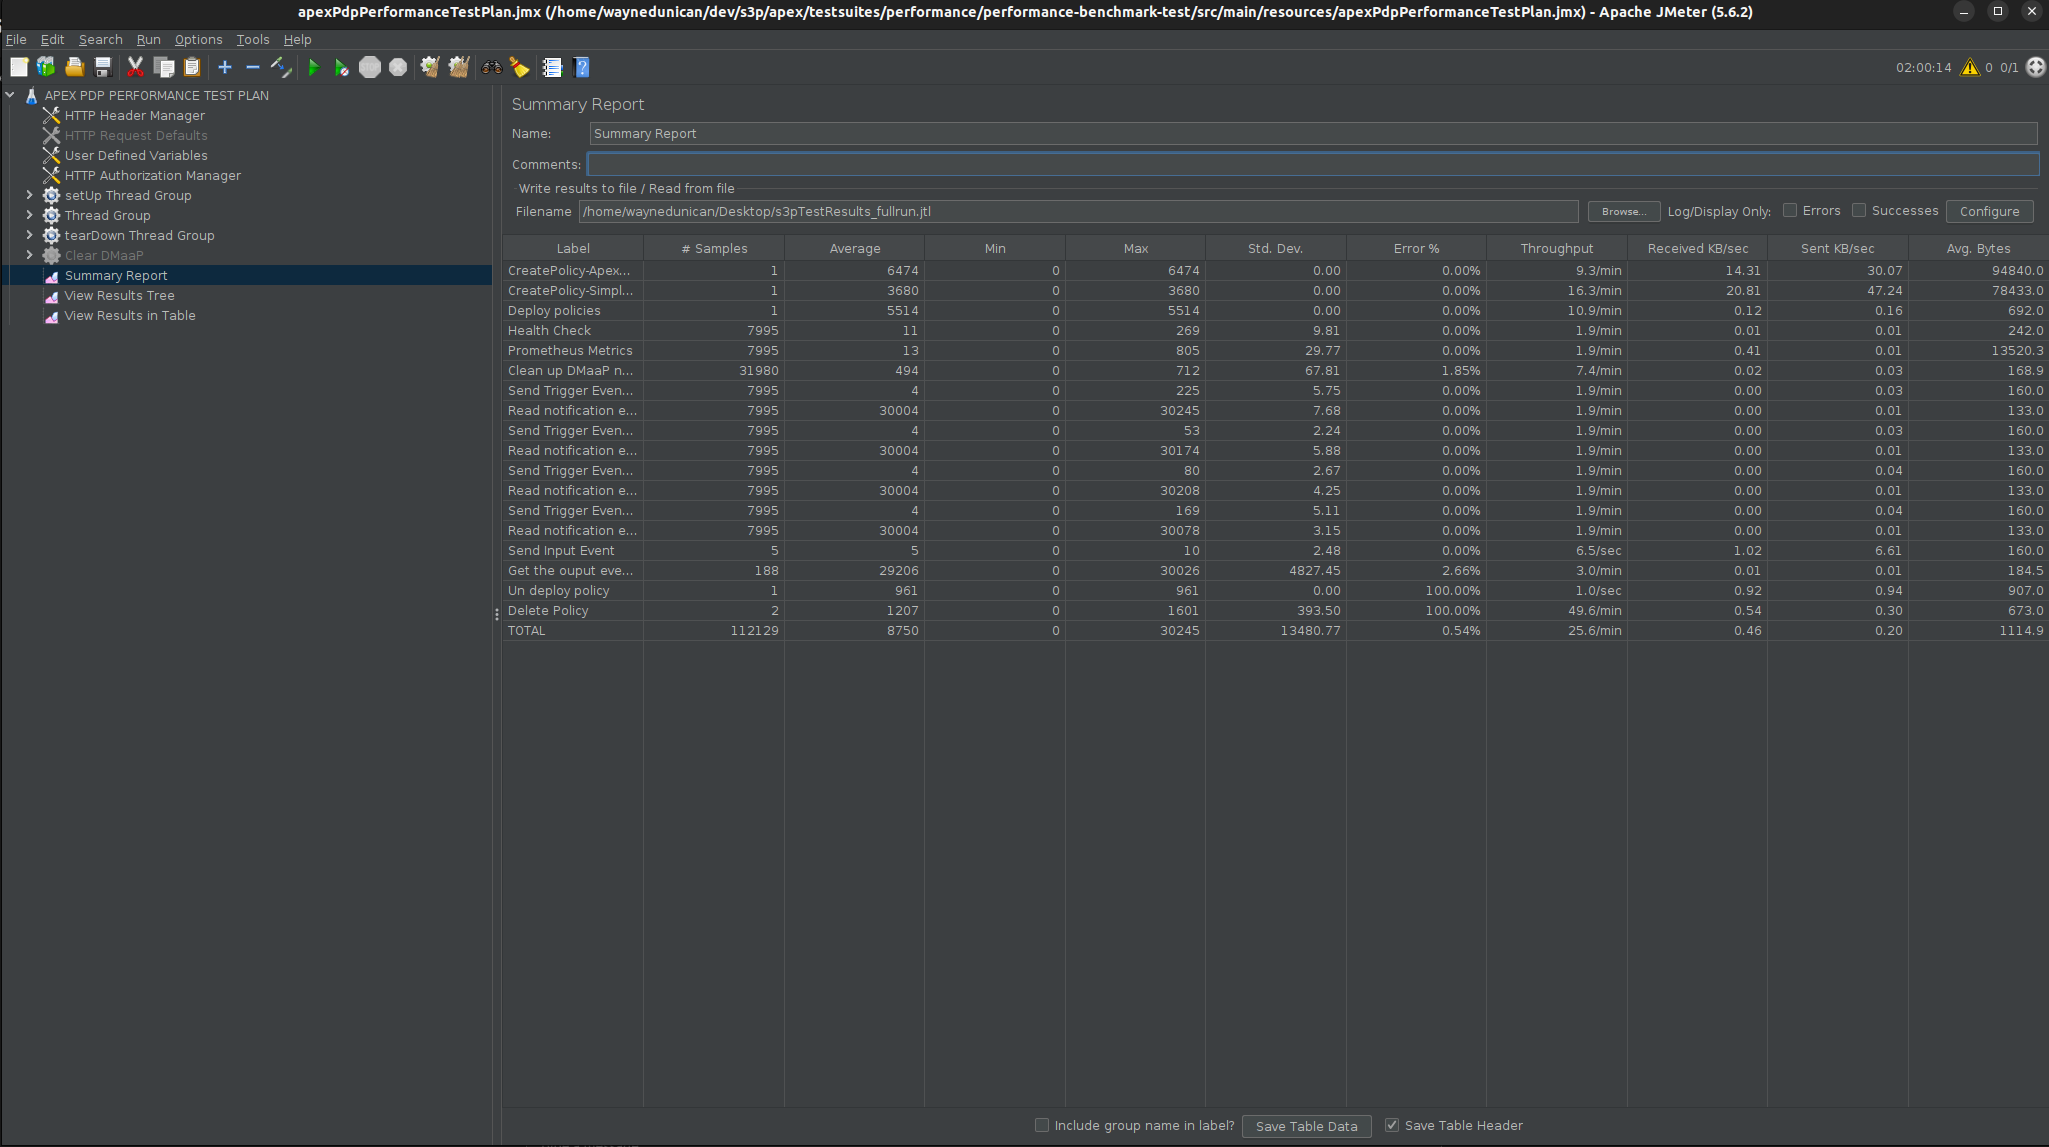
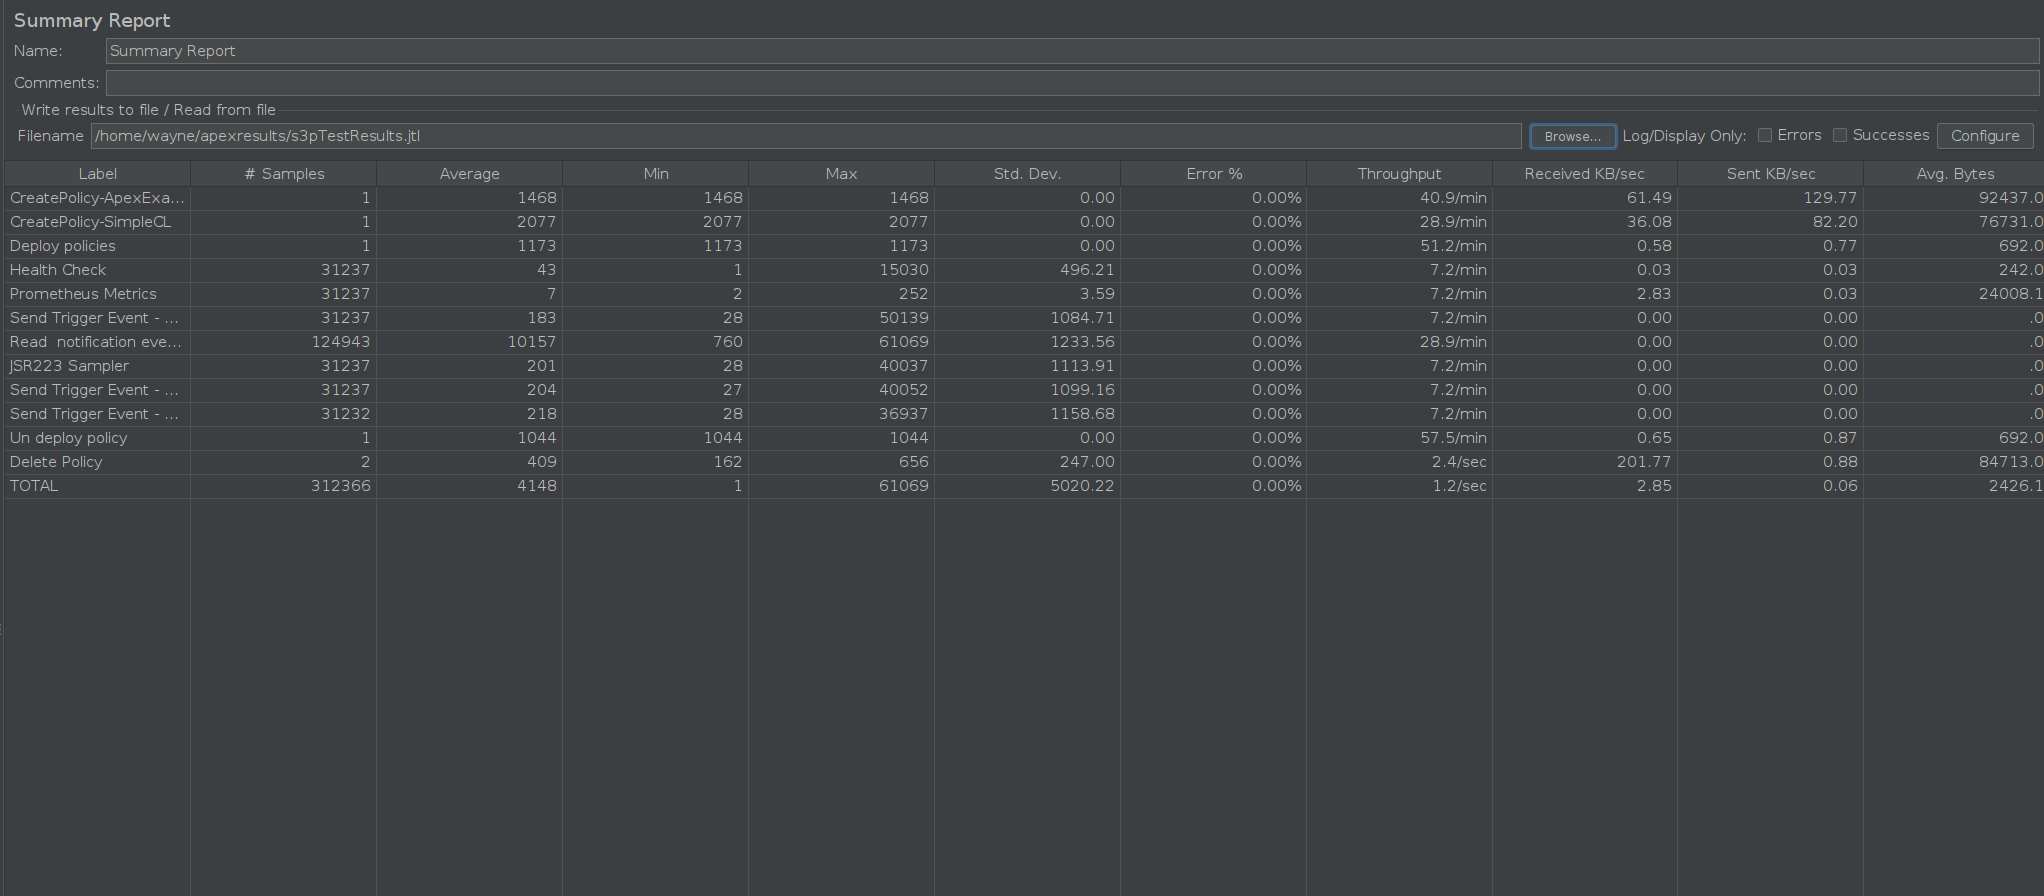
Update Apex S3P test results
Issue-ID: POLICY-4977

diff --git a/docs/development/devtools/testing/s3p/apex-s3p.rst b/docs/development/devtools/testing/s3p/apex-s3p.rst
@@ -19,7 +19,7 @@ Deploying ONAP using OOM
 ------------------------
 
 APEX-PDP along with all policy components are deployed as part of a full Policy Framework deployment.
-At a minimum, the following components are needed: policy, mariadb-galera, prometheus and dmaap.
+At a minimum, the following components are needed: policy, mariadb-galera, prometheus and kafka.
 
 The S3P tests utilise the ./run-s3p-tests script in the apex component. This will setup the microk8s environment, deploy
 policy and prometheus, expose the services so they can be reached by JMeter, install JMeter and run the tests based on
@@ -28,11 +28,11 @@ the arguments provided.
 Set up policy-models-simulator
 ------------------------------
 
-Policy-models-simulator is deployed to use the DMaaP simulator during policy execution.
+Kafka is deployed and is used during policy execution.
     Simulator configurations used are available in apex-pdp repository:
       testsuites/apex-pdp-stability/src/main/resources/simulatorConfig/
 
-The published port 30904 is used in JMeter for the DMaaP simulator.
+The published port 29092 is used in JMeter for the Kafka.
 
 JMeter Tests
 ------------
@@ -48,8 +48,8 @@ Both tests were run via jMeter.
 
 .. Note::
    Policy executions are validated in a stricter fashion during the tests.
-   There are test cases where up to 80 events are expected on the DMaaP topic.
-   DMaaP simulator is used to keep it simple and avoid any message pickup timing related issues.
+   There are test cases where up to 80 events are expected on the Kafka topic.
+   Kafka is used to keep it simple and avoid any message pickup timing related issues.
 
 Stability Test of APEX-PDP
 ++++++++++++++++++++++++++
@@ -77,20 +77,18 @@ Once the policies are created and deployed to APEX-PDP by the setup thread, five
 
 - **Healthcheck** - checks the health status of APEX-PDP
 - **Prometheus Metrics** - checks that APEX-PDP is exposing prometheus metrics
-- **Test Simplecontrolloop policy success case** - Send a trigger event to *unauthenticated.DCAE_CL_OUTPUT* DMaaP topic.
+- **Test Simplecontrolloop policy success case** - Send a trigger event to *unauthenticated.DCAE_CL_OUTPUT* Kafka topic.
     If the policy execution is successful, 3 different notification events are sent to *APEX-CL-MGT* topic by each one of the 5 threads.
     So, it is checked if 15 notification messages are received in total on *APEX-CL-MGT* topic with the relevant messages.
-- **Test Simplecontrolloop policy failure case** - Send a trigger event with invalid pnfName to *unauthenticated.DCAE_CL_OUTPUT* DMaaP topic.
+- **Test Simplecontrolloop policy failure case** - Send a trigger event with invalid pnfName to *unauthenticated.DCAE_CL_OUTPUT* Kafka topic.
     The policy execution is expected to fail due to AAI failure response. 2 notification events are expected on *APEX-CL-MGT* topic by a thread in this case.
     It is checked if 10 notification messages are received in total on *APEX-CL-MGT* topic with the relevant messages.
-- **Test Example policy success case** - Send a trigger event to *unauthenticated.DCAE_POLICY_EXAMPLE_OUTPUT* DMaaP topic.
+- **Test Example policy success case** - Send a trigger event to *unauthenticated.DCAE_POLICY_EXAMPLE_OUTPUT* Kafka topic.
     If the policy execution is successful, 4 different notification events are sent to *APEX-CL-MGT* topic by each one of the 5 threads.
     So, it is checked if 20 notification messages are received in total on *APEX-CL-MGT* topic with the relevant messages.
-- **Test Example policy failure case** - Send a trigger event with invalid vnfName to *unauthenticated.DCAE_POLICY_EXAMPLE_OUTPUT* DMaaP topic.
+- **Test Example policy failure case** - Send a trigger event with invalid vnfName to *unauthenticated.DCAE_POLICY_EXAMPLE_OUTPUT* Kafka topic.
     The policy execution is expected to fail due to AAI failure response. 2 notification events are expected on *APEX-CL-MGT* topic by a thread in this case.
     So, it is checked if 10 notification messages are received in total on *APEX-CL-MGT* topic with the relevant messages.
-- **Clean up DMaaP notification topic** - DMaaP notification topic which is *APEX-CL-MGT* is cleaned up after each test to make sure that one failure doesn't lead to cascading errors.
-
 
 Teardown Phase
 """"""""""""""
@@ -119,7 +117,7 @@ The following steps can be used to configure the parameters of test plan.
  API_PORT            Port number of API for making REST API calls such as create/delete of policy
  APEX_PORT           Port number of APEX for making REST API calls such as healthcheck/metrics
  SIM_HOST            IP Address or hostname running policy-models-simulator
- DMAAP_PORT          Port number of DMaaP simulator for making REST API calls such as reading notification events
+ KAFKA_PORT          Port number of Kafka bootstrap server for sending message events
  wait                Wait time if required after a request (in milliseconds)
  threads             Number of threads to run test cases in parallel
  threadsTimeOutInMs  Synchronization timer for threads running in parallel (in milliseconds)
@@ -143,7 +141,7 @@ Stability test plan was triggered for 72 hours. There were no failures during th
 =======================  =================  ==================  ==================================
 **Total # of requests**  **Success %**      **Error %**         **Average time taken per request**
 =======================  =================  ==================  ==================================
-112245                   99.47 %            0.53 %              2.309 sec.
+312366                   100 %              0 %                 4148ms
 =======================  =================  ==================  ==================================
 
 **JMeter Screenshot**
@@ -191,7 +189,7 @@ Test results are shown as below.
 =======================  =================  ==================  ==================================
 **Total # of requests**  **Success %**      **Error %**         **Average time taken per request**
 =======================  =================  ==================  ==================================
-12486                    99.32 %            0.68 %              576.64 ms
+344624                   100 %              0 %                 4178 ms
 =======================  =================  ==================  ==================================
 
 **JMeter Screenshot**
